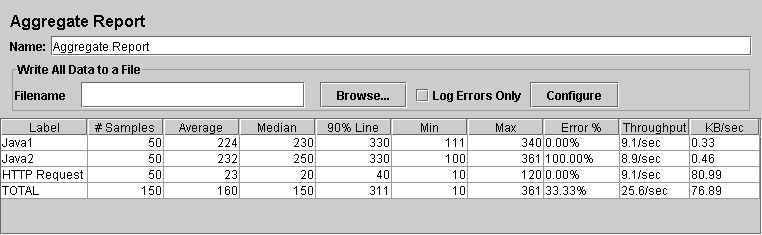
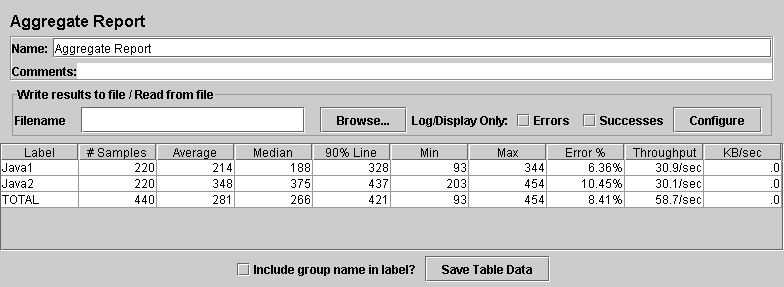
Bug 42204 - add thread group name to Aggregate and Summary reports
git-svn-id: https://svn.apache.org/repos/asf/jakarta/jmeter/trunk@642732 13f79535-47bb-0310-9956-ffa450edef68

diff --git a/src/components/org/apache/jmeter/visualizers/SummaryReport.java b/src/components/org/apache/jmeter/visualizers/SummaryReport.java
@@ -22,7 +22,6 @@ import java.awt.BorderLayout;
 import java.awt.Dimension;
 import java.awt.event.ActionEvent;
 import java.awt.event.ActionListener;
-import java.io.File;
 import java.io.FileNotFoundException;
 import java.io.FileWriter;
 import java.io.IOException;
@@ -32,6 +31,7 @@ import java.util.Map;
 
 import javax.swing.BoxLayout;
 import javax.swing.JButton;
+import javax.swing.JCheckBox;
 import javax.swing.JFileChooser;
 import javax.swing.JPanel;
 import javax.swing.JScrollPane;
@@ -85,7 +85,10 @@ public class SummaryReport extends AbstractVisualizer implements Clearable, Acti
 	protected JScrollPane myScrollPane;
 
     protected JButton saveTable = 
-        new JButton(JMeterUtils.getResString("aggregate_graph_save_table"));			//$NON-NLS-1$
+        new JButton(JMeterUtils.getResString("aggregate_graph_save_table"));            //$NON-NLS-1$
+    
+    private JCheckBox useGroupName = 
+        new JCheckBox(JMeterUtils.getResString("aggregate_graph_use_group_name"));            //$NON-NLS-1$
     
 	transient private ObjectTableModel model;
 
@@ -140,10 +143,11 @@ public class SummaryReport extends AbstractVisualizer implements Clearable, Acti
 
 	public void add(SampleResult res) {
 		Calculator row = null;
+        final String sampleLabel = res.getSampleLabel(useGroupName.isSelected());
 		synchronized (tableRows) {
-			row = (Calculator) tableRows.get(res.getSampleLabel());
+            row = (Calculator) tableRows.get(sampleLabel);
 			if (row == null) {
-				row = new Calculator(res.getSampleLabel());
+				row = new Calculator(sampleLabel);
 				tableRows.put(row.getLabel(), row);
 				model.insertRow(row, model.getRowCount() - 1);
 			}
@@ -186,16 +190,21 @@ public class SummaryReport extends AbstractVisualizer implements Clearable, Acti
 		this.add(mainPanel, BorderLayout.NORTH);
 		this.add(myScrollPane, BorderLayout.CENTER);
 		saveTable.addActionListener(this);
-		this.add(saveTable,BorderLayout.SOUTH);
+		JPanel opts = new JPanel();
+        opts.add(useGroupName, BorderLayout.WEST);
+		opts.add(saveTable, BorderLayout.CENTER);
+		this.add(opts,BorderLayout.SOUTH);
 	}
 
 	public void actionPerformed(ActionEvent ev) {
 		if (ev.getSource() == saveTable) {
 	        JFileChooser chooser = FileDialoger.promptToSaveFile("summary.csv");//$NON-NLS-1$
-			File output = chooser.getSelectedFile();
+            if (chooser == null) {
+                return;
+            }
 			FileWriter writer = null;
 			try {
-			    writer = new FileWriter(output);
+			    writer = new FileWriter(chooser.getSelectedFile());
 			    CSVSaveService.saveCSVStats(model,writer);
 			} catch (FileNotFoundException e) {
 			    log.warn(e.getMessage());

diff --git a/src/components/org/apache/jmeter/visualizers/StatVisualizer.java b/src/components/org/apache/jmeter/visualizers/StatVisualizer.java
@@ -22,7 +22,6 @@ import java.awt.BorderLayout;
 import java.awt.Dimension;
 import java.awt.event.ActionEvent;
 import java.awt.event.ActionListener;
-import java.io.File;
 import java.io.FileNotFoundException;
 import java.io.FileWriter;
 import java.io.IOException;
@@ -35,6 +34,7 @@ import java.util.Map;
 
 import javax.swing.BoxLayout;
 import javax.swing.JButton;
+import javax.swing.JCheckBox;
 import javax.swing.JFileChooser;
 import javax.swing.JPanel;
 import javax.swing.JScrollPane;
@@ -93,6 +93,9 @@ public class StatVisualizer extends AbstractVisualizer implements Clearable, Act
     protected JButton saveTable = 
         new JButton(JMeterUtils.getResString("aggregate_graph_save_table"));			//$NON-NLS-1$
     
+    private JCheckBox useGroupName = 
+        new JCheckBox(JMeterUtils.getResString("aggregate_graph_use_group_name"));            //$NON-NLS-1$
+    
 	transient private ObjectTableModel model;
 
 	Map tableRows = Collections.synchronizedMap(new HashMap());
@@ -147,10 +150,11 @@ public class StatVisualizer extends AbstractVisualizer implements Clearable, Act
 
 	public void add(SampleResult res) {
 		SamplingStatCalculator row = null;
+        final String sampleLabel = res.getSampleLabel(useGroupName.isSelected());
 		synchronized (tableRows) {
-			row = (SamplingStatCalculator) tableRows.get(res.getSampleLabel());
+            row = (SamplingStatCalculator) tableRows.get(sampleLabel);
 			if (row == null) {
-				row = new SamplingStatCalculator(res.getSampleLabel());
+				row = new SamplingStatCalculator(sampleLabel);
 				tableRows.put(row.getLabel(), row);
 				model.insertRow(row, model.getRowCount() - 1);
 			}
@@ -194,16 +198,21 @@ public class StatVisualizer extends AbstractVisualizer implements Clearable, Act
 		this.add(mainPanel, BorderLayout.NORTH);
 		this.add(myScrollPane, BorderLayout.CENTER);
 		saveTable.addActionListener(this);
-		this.add(saveTable,BorderLayout.SOUTH);
+        JPanel opts = new JPanel();
+        opts.add(useGroupName, BorderLayout.WEST);
+        opts.add(saveTable, BorderLayout.CENTER);
+        this.add(opts,BorderLayout.SOUTH);
 	}
 
 	public void actionPerformed(ActionEvent ev) {
 		if (ev.getSource() == saveTable) {
 	        JFileChooser chooser = FileDialoger.promptToSaveFile("aggregate.csv");//$NON-NLS-1$
-			File output = chooser.getSelectedFile();
+	        if (chooser == null) {
+	            return;
+	        }
 			FileWriter writer = null;
 			try {
-			    writer = new FileWriter(output);
+			    writer = new FileWriter(chooser.getSelectedFile());
 			    CSVSaveService.saveCSVStats(model,writer);
 			} catch (FileNotFoundException e) {
 			    log.warn(e.getMessage());
